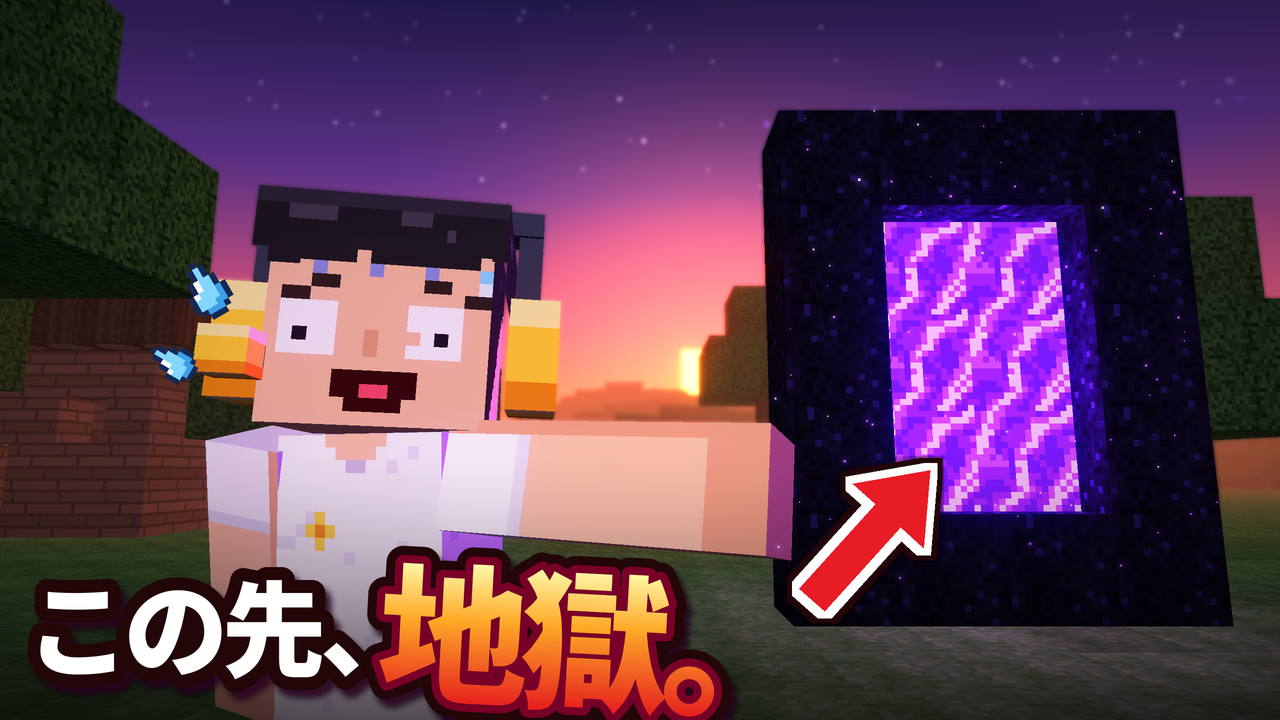
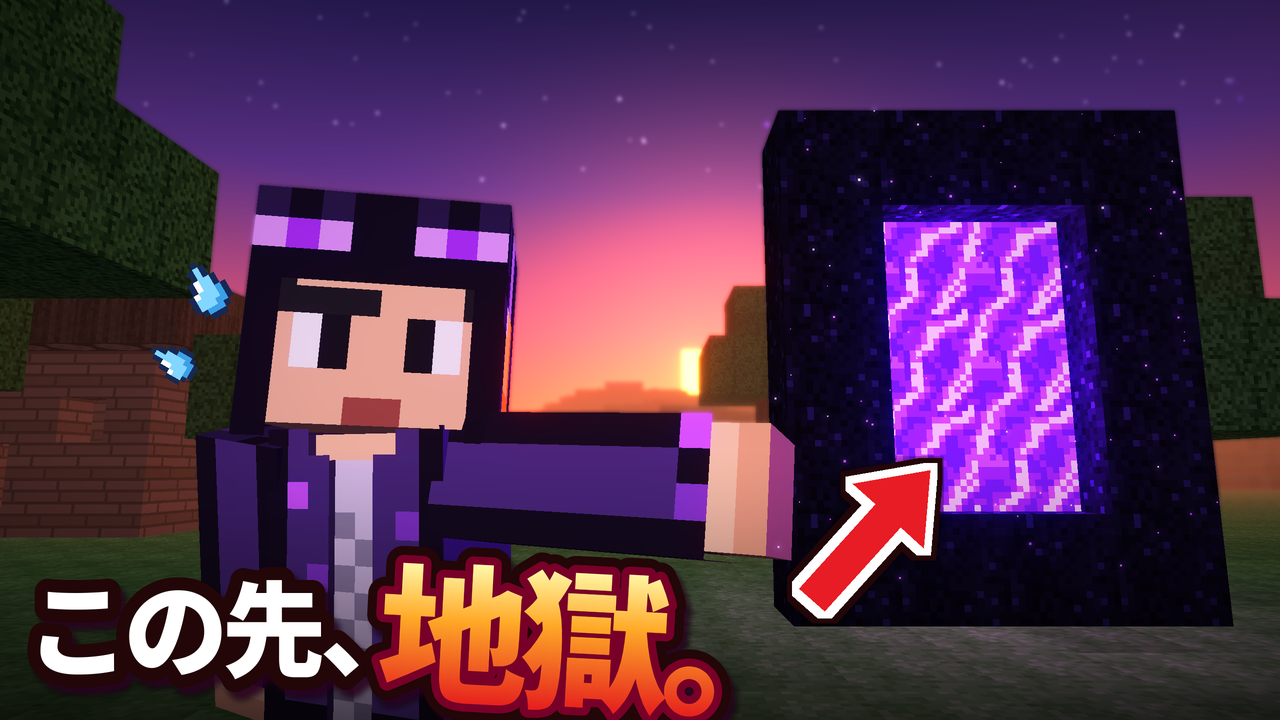
#3 のサムネのキャラを、チャンネルのマイクラスキン（エンダーパーカー）に変更
- #3 はスキン画像 sekunuyu-skin/sekunuyu_skin.png をそのまま着せる（アイコン・ゲームと同じ見た目）
- スキン画像の決まり（パーツの位置）と切り分けを lib/skin.py にまとめ、スキン・アイコン・サムネで共通に
- 使わなくなった #3 用の表情（FACE_GULP）を削除。#2 のサムネ・スキン・アイコンの出力は変わらない

Claude-Session: https://claude.ai/code/session_01ARLGywnTjgvutUHsht7TWK

Changed region(s): [[0.125, 0.275, 0.5938, 0.8861], [0.1875, 0.9472, 0.3438, 1.0]]

diff --git a/sekunuyu-skin/make_skin.py b/sekunuyu-skin/make_skin.py
@@ -15,7 +15,10 @@ import numpy as np
 from PIL import Image, ImageDraw
 
 HERE = os.path.dirname(os.path.abspath(__file__))
-THUMB = os.path.join(HERE, "..", "sekunuyu-thumbnail")   # 確認用の 3D 描画はサムネと同じレンダラーを使う
+THUMB = os.path.join(HERE, "..", "sekunuyu-thumbnail")   # スキンの決まりと確認用の 3D 描画は、サムネと同じ lib を使う
+sys.path.insert(0, THUMB)
+
+from lib.skin import OVERLAYS, PARTS, face_rects, skin_textures  # noqa: E402
 
 PAL = {
     "h": "#1C1820", "H": "#3E3848", "g": "#2B2533",      # 髪・つや・ふち
@@ -36,32 +39,6 @@ PAL = {
     "e": "#A93BEB", "E": "#E3A6FF",                      # エンダーの目（むらさき・うすむらさき）
     "V": "#C25BFF", "v": "#7B3BB5",                      # エンダーのつぶつぶ（明るい・暗い）
 }
-
-# 各パーツのスキン画像上の位置（左上）と大きさ（幅, 高さ, 奥行き）。Minecraft の決まりどおり
-PARTS = {
-    "head": ((0, 0), (8, 8, 8)),
-    "hat": ((32, 0), (8, 8, 8)),         # 頭の2枚目（帽子レイヤー）
-    "body": ((16, 16), (8, 12, 4)),
-    "jacket": ((16, 32), (8, 12, 4)),    # 体の2枚目（ジャケット）
-    "arm": ((40, 16), (4, 12, 4)),       # 右腕
-    "sleeve": ((40, 32), (4, 12, 4)),    # 右腕の2枚目（そで）
-    "arm_l": ((32, 48), (4, 12, 4)),
-    "sleeve_l": ((48, 48), (4, 12, 4)),
-    "leg": ((0, 16), (4, 12, 4)),        # 右足
-    "pants": ((0, 32), (4, 12, 4)),      # 右足の2枚目（ズボン）
-    "leg_l": ((16, 48), (4, 12, 4)),
-    "pants_l": ((0, 48), (4, 12, 4)),
-}
-# 2枚目のレイヤーは本体より少し大きく、浮いて見える（透明にしてよい所）
-OVERLAYS = {"hat", "jacket", "sleeve", "sleeve_l", "pants", "pants_l"}
-
-
-def face_rects(u, v, w, h, d):
-    """箱の6面がスキン画像のどこに入るか。right/left はキャラから見た右/左。"""
-    return {"top": (u + d, v, w, d), "bottom": (u + d + w, v, w, d),
-            "right": (u, v + d, d, h), "front": (u + d, v + d, w, h),
-            "left": (u + d + w, v + d, d, h), "back": (u + 2 * d + w, v + d, w, h)}
-
 
 def mirror(part: dict) -> dict:
     """左右反転（右腕 → 左腕など）。"""
@@ -427,16 +404,7 @@ def build_skin() -> np.ndarray:
 # ---------------------------------------------------------------- 確認用の画像
 
 
-def skin_to_textures(skin: np.ndarray) -> dict:
-    """スキン画像を、サムネ用の 3D モデル（lib/models.player）が使う形に切り分ける。"""
-    T = {}
-    for name, ((u, v), (w, h, d)) in PARTS.items():
-        T[name] = {f: skin[y:y + fh, x:x + fw].copy() for f, (x, y, fw, fh) in face_rects(u, v, w, h, d).items()}
-    return T
-
-
 def render_view(T, cam_pos, w, h, pose, ss=2, target=(0, 1.0, 0), fov=34):
-    sys.path.insert(0, THUMB)
     from lib.models import player
     from lib.post import tonemap
     from lib.voxel import Camera, Lights, render
@@ -456,12 +424,11 @@ def render_view(T, cam_pos, w, h, pose, ss=2, target=(0, 1.0, 0), fov=34):
 
 
 def preview(skin: np.ndarray) -> Image.Image:
-    sys.path.insert(0, THUMB)
     from lib import overlay as ov
     from lib.fonts import BLACK, ensure_fonts
     from lib.models import Pose
     ensure_fonts()
-    T = skin_to_textures(skin)
+    T = skin_textures(skin)
     W, H = 1280, 720
     bg = ov.gradient((W, H), [(0, (196, 226, 255)), (1, (236, 246, 255))]).convert("RGBA")
     pose = Pose(arm_r=(-12, 4), arm_l=(12, 4), leg_r=8, leg_l=-8)

diff --git a/sekunuyu-thumbnail/lib/skin.py b/sekunuyu-thumbnail/lib/skin.py
@@ -1,0 +1,42 @@
+"""マイクラのスキン画像（64×64）の決まり（どのパーツが画像のどこにあるか）と、3D モデル用の切り分け。"""
+from __future__ import annotations
+
+import numpy as np
+from PIL import Image
+
+# 各パーツのスキン画像上の位置（左上）と大きさ（幅, 高さ, 奥行き）。Minecraft の決まりどおり
+PARTS = {
+    "head": ((0, 0), (8, 8, 8)),
+    "hat": ((32, 0), (8, 8, 8)),         # 頭の2枚目（帽子レイヤー）
+    "body": ((16, 16), (8, 12, 4)),
+    "jacket": ((16, 32), (8, 12, 4)),    # 体の2枚目（ジャケット）
+    "arm": ((40, 16), (4, 12, 4)),       # 右腕
+    "sleeve": ((40, 32), (4, 12, 4)),    # 右腕の2枚目（そで）
+    "arm_l": ((32, 48), (4, 12, 4)),
+    "sleeve_l": ((48, 48), (4, 12, 4)),
+    "leg": ((0, 16), (4, 12, 4)),        # 右足
+    "pants": ((0, 32), (4, 12, 4)),      # 右足の2枚目（ズボン）
+    "leg_l": ((16, 48), (4, 12, 4)),
+    "pants_l": ((0, 48), (4, 12, 4)),
+}
+# 2枚目のレイヤーは本体より少し大きく、浮いて見える（透明にしてよい所）
+OVERLAYS = {"hat", "jacket", "sleeve", "sleeve_l", "pants", "pants_l"}
+
+
+def face_rects(u, v, w, h, d):
+    """箱の6面がスキン画像のどこに入るか。right/left はキャラから見た右/左。"""
+    return {"top": (u + d, v, w, d), "bottom": (u + d + w, v, w, d),
+            "right": (u, v + d, d, h), "front": (u + d, v + d, w, h),
+            "left": (u + d + w, v + d, d, h), "back": (u + 2 * d + w, v + d, w, h)}
+
+
+def load_skin(path: str) -> np.ndarray:
+    return np.asarray(Image.open(path).convert("RGBA"))
+
+
+def skin_textures(skin: np.ndarray) -> dict:
+    """スキン画像を、models.player が使う形（パーツ → 面 → テクスチャ）に切り分ける。"""
+    T = {}
+    for name, ((u, v), (w, h, d)) in PARTS.items():
+        T[name] = {f: skin[y:y + fh, x:x + fw].copy() for f, (x, y, fw, fh) in face_rects(u, v, w, h, d).items()}
+    return T

diff --git a/sekunuyu-thumbnail/episodes/ep03_portal.py b/sekunuyu-thumbnail/episodes/ep03_portal.py
@@ -2,6 +2,7 @@
 from __future__ import annotations
 
 import math
+import os
 
 import numpy as np
 from PIL import Image
@@ -11,6 +12,7 @@ from lib import overlay as ov
 from lib import textures as TX
 from lib.models import Pose, player
 from lib.post import bloom, blur, depth_of_field, grade, tonemap
+from lib.skin import load_skin, skin_textures
 from lib.voxel import Camera, Face, Lights, render
 from lib.world3d import DIRT, GRASS, LEAVES, LOG, OBSIDIAN, PLANKS, STONE, VoxelWorld
 
@@ -21,6 +23,9 @@ W, H = 1280, 720
 PORTAL_X, PORTAL_Z = 2, -6
 PORTAL_IN = (PORTAL_X + 1, PORTAL_X + 3, 1, 4)   # 渦の範囲 x0, x1, y0, y1
 SUN_DIR = np.array([0.12, 0.1, -1.0])             # 夕日の方向（キャラとゲートのあいだの奥・低い）
+# キャラはチャンネルのマイクラスキン（エンダーパーカー＋黄色いヘッドセット）をそのまま着せる
+SKIN = os.path.join(os.path.dirname(os.path.dirname(os.path.dirname(os.path.abspath(__file__)))),
+                    "sekunuyu-skin", "sekunuyu_skin.png")
 
 
 # ---------------------------------------------------------------- 地形
@@ -100,8 +105,7 @@ class Scene:
         self.cam = Camera((0.6, 1.4, 2.0), (0.6, 2.0, -2.0), 52, w, h)
         pose = Pose(yaw=-22, lean=4, head_yaw=30, head_pitch=4, head_roll=-4,
                     arm_r=(10, 8), arm_l=(-12, 88), leg_r=-6, leg_l=6)   # 左手でゲートを指さす
-        T, HS = TX.player_textures(TX.FACE_GULP), TX.headset_textures()
-        self.player_faces, self.pinfo = player(T, HS, None, (0, 0, 0), pose)
+        self.player_faces, self.pinfo = player(skin_textures(load_skin(SKIN)), None, None, (0, 0, 0), pose)
         x0, x1, y0, y1 = PORTAL_IN
         self.portal_c = np.array([(x0 + x1) / 2, (y0 + y1) / 2, PORTAL_Z + 0.5])
         sun_col = (1.15, 0.62, 0.32)

diff --git a/sekunuyu-icon/make_icon.py b/sekunuyu-icon/make_icon.py
@@ -25,6 +25,7 @@ from lib import overlay as ov  # noqa: E402
 from lib.fonts import BLACK, ensure_fonts  # noqa: E402
 from lib.models import Pose, player  # noqa: E402
 from lib.post import tonemap  # noqa: E402
+from lib.skin import load_skin, skin_textures  # noqa: E402
 from lib.voxel import Camera, Lights, render  # noqa: E402
 
 SIZE = 800
@@ -34,8 +35,7 @@ PURPLE = [(120, 70, 190), (40, 22, 70)]
 SPARK = [(194, 91, 255), (123, 59, 181), (236, 190, 255)]
 
 
-def load_skin() -> np.ndarray:
-    return np.asarray(Image.open(os.path.join(ROOT, "sekunuyu-skin", "sekunuyu_skin.png")).convert("RGBA"))
+SKIN = os.path.join(ROOT, "sekunuyu-skin", "sekunuyu_skin.png")
 
 
 # ---------------------------------------------------------------- 背景
@@ -211,8 +211,8 @@ def options_sheet(icons: dict) -> Image.Image:
 
 def main():
     ensure_fonts()
-    skin = load_skin()
-    T = make_skin.skin_to_textures(skin)
+    skin = load_skin(SKIN)
+    T = skin_textures(skin)
     out = os.path.join(HERE, "output")
     os.makedirs(out, exist_ok=True)
     icons = {"A": icon_a(T), "B": icon_b(T), "C": icon_c(skin)}

diff --git a/sekunuyu-thumbnail/lib/textures.py b/sekunuyu-thumbnail/lib/textures.py
@@ -166,26 +166,6 @@ FACE_SCREAM = [
     "sssssmmrrmmsssss",
 ]
 
-# ゴクリ…（目を見開いて、口は小さく「お」の字、汗たらり）
-FACE_GULP = [
-    "hhhhhhhhhhhhhhhh",
-    "hhHhhhhhhhhhHhhh",
-    "hhhhhhhhhhhhhhhh",
-    "shhhhhshhhhhhhhs",
-    "ssspssspssspsssd",
-    "sssbbssssssbbssD",
-    "sbbsssssssssssbb",
-    "swwwwssssswwwwss",
-    "swwwwssssswwwwss",
-    "swkwwssSssswkwss",
-    "swwwwssSsswwwwss",
-    "ssssssssssssssss",
-    "sssssmmmmmmsssss",
-    "sssssmmrrmmsssss",
-    "ssssssmmmmssssss",
-    "ssssssssssssssss",
-]
-
 HEAD_SIDE = [
     "hhhhhhhhhhhhhhhh",
     "hhhHhhhhhhhhhhhh",
